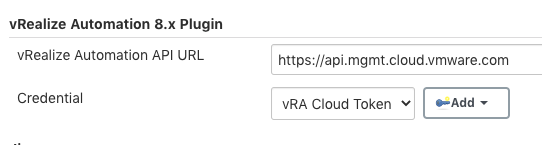
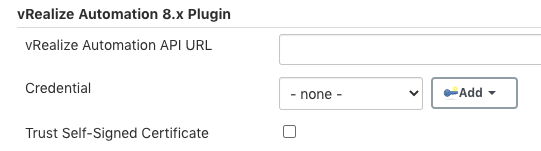
Added flag for self-signed certs

diff --git a/src/test/java/com/vmware/vra/jenkinsplugin/vra/VraApiTest.java b/src/test/java/com/vmware/vra/jenkinsplugin/vra/VraApiTest.java
@@ -73,7 +73,7 @@ public class VraApiTest {
       System.err.println("VRA_URL not set. Skipping test");
       return;
     }
-    final VraApi client = new VraApi(url, System.getenv("VRA_TOKEN"));
+    final VraApi client = new VraApi(url, System.getenv("VRA_TOKEN"), true);
     assertNotNull(client);
   }
 
@@ -84,7 +84,7 @@ public class VraApiTest {
       System.err.println("VRA_URL not set. Skipping test");
       return;
     }
-    final VraApi client = new VraApi(url, System.getenv("VRA_TOKEN"));
+    final VraApi client = new VraApi(url, System.getenv("VRA_TOKEN"), true);
     final CatalogItem ci = client.getCatalogItemByName(catalogItemName);
     assertNotNull(ci);
     assertEquals(catalogItemName, ci.getName());
@@ -113,7 +113,7 @@ public class VraApiTest {
       System.err.println("VRA_URL not set. Skipping test");
       return;
     }
-    final VraApi client = new VraApi(url, System.getenv("VRA_TOKEN"));
+    final VraApi client = new VraApi(url, System.getenv("VRA_TOKEN"), true);
     CatalogItem ci = client.getCatalogItemByName(catalogItemName);
     assertNotNull(ci);
     assertEquals(catalogItemName, ci.getName());
@@ -145,7 +145,7 @@ public class VraApiTest {
       System.err.println("VRA_URL not set. Skipping test");
       return;
     }
-    final VraApi client = new VraApi(url, System.getenv("VRA_TOKEN"));
+    final VraApi client = new VraApi(url, System.getenv("VRA_TOKEN"), true);
     final Project proj = client.getProjectByName(projectName);
     assertNotNull(proj);
     assertEquals(projectName, proj.getName());
@@ -173,7 +173,7 @@ public class VraApiTest {
       System.err.println("VRA_URL not set. Skipping test");
       return;
     }
-    final VraApi client = new VraApi(url, System.getenv("VRA_TOKEN"));
+    final VraApi client = new VraApi(url, System.getenv("VRA_TOKEN"), true);
     Project proj = client.getProjectByName(projectName);
     assertNotNull(proj);
     assertEquals(projectName, proj.getName());
@@ -221,7 +221,7 @@ public class VraApiTest {
       System.err.println("VRA_URL not set. Skipping test");
       return;
     }
-    final VraApi client = new VraApi(url, System.getenv("VRA_TOKEN"));
+    final VraApi client = new VraApi(url, System.getenv("VRA_TOKEN"), true);
     final String depName = "Test " + UUID.randomUUID().toString();
     final CatalogItemRequestResponse[] resp =
         client.deployFromCatalog(

diff --git a/src/main/java/com/vmware/vra/jenkinsplugin/vra/VraApi.java b/src/main/java/com/vmware/vra/jenkinsplugin/vra/VraApi.java
@@ -70,12 +70,11 @@ public class VraApi implements Serializable {
                   return Pattern.compile(pattern);
                 }
               });
-  private static VraClientFactory clientFactory =
-      new DefaultFactory(); // Hack to make testing easier. See below!
   private final VraClient vraClient;
 
-  public VraApi(final String url, final String token) throws VRAException {
-    this(clientFactory.createClient(url, token));
+  public VraApi(final String url, final String token, final boolean trustSelfSignedCert)
+      throws VRAException {
+    this(new VraClient(url, token, trustSelfSignedCert));
   }
 
   public VraApi(final VraClient vraClient) {
@@ -89,10 +88,6 @@ public class VraApi implements Serializable {
       throw new IllegalArgumentException(
           "Something went wrong while parsing regexp for resource " + resourceName, e);
     }
-  }
-
-  public static void setClientFactory(final VraClientFactory clientFactory) {
-    VraApi.clientFactory = clientFactory;
   }
 
   private static void checkResponseSingleton(final List<?> content) throws VRAException {
@@ -347,15 +342,5 @@ public class VraApi implements Serializable {
     return getResourcesForDeployment(deploymentId).stream()
         .filter((r) -> r.getName().equals(resourceName))
         .collect(Collectors.toList());
-  }
-
-  // This construct is a bit of a hack to make it easier to inject mocked clients
-  // when we're testing. We can't use mockedConstruction, since the creation may happen in
-  // a different thread than the caller's.
-  public static class DefaultFactory implements VraClientFactory {
-    @Override
-    public VraClient createClient(final String url, final String token) throws VRAException {
-      return new VraClient(url, token);
-    }
   }
 }

diff --git a/src/test/java/com/vmware/vra/jenkinsplugin/pipeline/DeleteDeploymentStepTest.java b/src/test/java/com/vmware/vra/jenkinsplugin/pipeline/DeleteDeploymentStepTest.java
@@ -25,6 +25,7 @@
 package com.vmware.vra.jenkinsplugin.pipeline;
 
 import static org.junit.Assert.assertEquals;
+import static org.junit.Assert.assertTrue;
 
 import hudson.util.StreamTaskListener;
 import java.util.HashMap;
@@ -49,6 +50,7 @@ public class DeleteDeploymentStepTest {
           final Map<String, Object> config = new HashMap<>();
           config.put("vraURL", "vraURL");
           config.put("token", "token");
+          config.put("trustSelfSignedCert", true);
           config.put("deploymentId", "deploymentId");
           config.put("timeout", 1L);
           final DescribableModel<DeleteDeploymentStep> model =
@@ -59,6 +61,7 @@ public class DeleteDeploymentStepTest {
           assertEquals("token", step.getToken());
           assertEquals("deploymentId", step.getDeploymentId());
           assertEquals(1L, step.getTimeout());
+          assertTrue(step.isTrustSelfSignedCert());
           model.uninstantiate2_(step);
         });
   }
@@ -77,8 +80,8 @@ public class DeleteDeploymentStepTest {
               new DescribableModel<>(DeleteDeploymentStep.class);
           DeleteDeploymentStep step = model.instantiate(config, StreamTaskListener.fromStderr());
           step = sct.configRoundTrip(step);
-          // assertEquals("vraURL", step.getVraURL());
-          // assertEquals("token", step.getToken());
+          assertEquals("vraURL", step.getVraURL());
+          assertEquals("token", step.getToken());
           assertEquals("deploymentName", step.getDeploymentName());
           assertEquals(1L, step.getTimeout());
           model.uninstantiate2_(step);

diff --git a/src/main/java/com/vmware/vra/jenkinsplugin/vra/VraClient.java b/src/main/java/com/vmware/vra/jenkinsplugin/vra/VraClient.java
@@ -59,9 +59,12 @@ public class VraClient implements Serializable {
   private static final long serialVersionUID = 3442278892595463523L;
   final String refreshToken;
   final String baseUrl;
+  final boolean trustSelfSignedCert;
 
-  public VraClient(final String baseUrl, final String token) throws VRAException {
+  public VraClient(final String baseUrl, final String token, final boolean trustSelfSignedCert)
+      throws VRAException {
     this.baseUrl = baseUrl;
+    this.trustSelfSignedCert = trustSelfSignedCert;
 
     final AuthenticationResponse resp =
         post(
@@ -118,10 +121,11 @@ public class VraClient implements Serializable {
   }
 
   private CloseableHttpClient getClient() throws VRAException {
-    // TODO: Don't assume self signed is OK!
     try {
       final SSLContextBuilder builder = new SSLContextBuilder();
-      builder.loadTrustMaterial(null, new TrustSelfSignedStrategy());
+      if (trustSelfSignedCert) {
+        builder.loadTrustMaterial(null, new TrustSelfSignedStrategy());
+      }
       final SSLConnectionSocketFactory sslsf = new SSLConnectionSocketFactory(builder.build());
       return HttpClients.custom().setSSLSocketFactory(sslsf).build();
     } catch (final KeyStoreException | KeyManagementException | NoSuchAlgorithmException e) {

diff --git a/src/test/java/com/vmware/vra/jenkinsplugin/GlobalConfigurationTest.java b/src/test/java/com/vmware/vra/jenkinsplugin/GlobalConfigurationTest.java
@@ -26,7 +26,9 @@ package com.vmware.vra.jenkinsplugin;
 
 import static org.junit.Assert.assertEquals;
 import static org.junit.Assert.assertNull;
+import static org.junit.Assert.assertTrue;
 
+import com.gargoylesoftware.htmlunit.html.HtmlCheckBoxInput;
 import com.gargoylesoftware.htmlunit.html.HtmlForm;
 import com.gargoylesoftware.htmlunit.html.HtmlTextInput;
 import org.junit.Rule;
@@ -54,7 +56,9 @@ public class GlobalConfigurationTest {
           assertNull("not set initially", GlobalVRAConfiguration.get().getVraURL());
           final HtmlForm config = r.createWebClient().goTo("configure").getFormByName("config");
           final HtmlTextInput textbox = config.getInputByName("_.vraURL");
+          final HtmlCheckBoxInput checkbox = config.getInputByName("_.trustSelfSignedCert");
           textbox.setText("hello");
+          checkbox.setChecked(true);
 
           r.submit(config);
           assertEquals(
@@ -68,6 +72,7 @@ public class GlobalConfigurationTest {
               "still there after restart of Jenkins",
               "hello",
               GlobalVRAConfiguration.get().getVraURL());
+          assertTrue(GlobalVRAConfiguration.get().getTrustSelfSignedCert());
         });
   }
 }

diff --git a/src/main/java/com/vmware/vra/jenkinsplugin/pipeline/AbstractStep.java b/src/main/java/com/vmware/vra/jenkinsplugin/pipeline/AbstractStep.java
@@ -40,6 +40,8 @@ public abstract class AbstractStep extends Step implements Serializable {
 
   protected String token;
 
+  protected boolean trustSelfSignedCert;
+
   private VraApi cachedClient;
 
   public AbstractStep() {}
@@ -48,7 +50,7 @@ public abstract class AbstractStep extends Step implements Serializable {
     if (cachedClient != null) {
       return cachedClient;
     }
-    return cachedClient = new VraApi(resolveVraURL(), resolveToken());
+    return cachedClient = new VraApi(resolveVraURL(), resolveToken(), trustSelfSignedCert);
   }
 
   @DoNotCall("use resolveVraURL instead!")
@@ -76,6 +78,19 @@ public abstract class AbstractStep extends Step implements Serializable {
   @DataBoundSetter
   public void setToken(final String token) {
     this.token = token;
+  }
+
+  public boolean isTrustSelfSignedCert() {
+    return trustSelfSignedCert;
+  }
+
+  public boolean getTrustSelfSignedCert() {
+    return trustSelfSignedCert;
+  }
+
+  @DataBoundSetter
+  public void setTrustSelfSignedCert(final boolean trustSelfSignedCert) {
+    this.trustSelfSignedCert = trustSelfSignedCert;
   }
 
   public String resolveToken() {

diff --git a/src/test/java/com/vmware/vra/jenkinsplugin/pipeline/DeploymentAwareStepTest.java b/src/test/java/com/vmware/vra/jenkinsplugin/pipeline/DeploymentAwareStepTest.java
@@ -25,6 +25,7 @@
 package com.vmware.vra.jenkinsplugin.pipeline;
 
 import static org.junit.Assert.assertEquals;
+import static org.junit.Assert.assertTrue;
 
 import hudson.util.StreamTaskListener;
 import java.util.HashMap;
@@ -51,6 +52,7 @@ public abstract class DeploymentAwareStepTest<T extends DeploymentAwareStep> {
           final Map<String, Object> config = new HashMap<>();
           config.put("vraURL", "vraURL");
           config.put("token", "token");
+          config.put("trustSelfSignedCert", true);
           config.put("deploymentId", "deploymentId");
           final DescribableModel<T> model = new DescribableModel<>(clazz);
           T step = model.instantiate(config, StreamTaskListener.fromStderr());
@@ -58,6 +60,7 @@ public abstract class DeploymentAwareStepTest<T extends DeploymentAwareStep> {
           assertEquals("vraURL", step.getVraURL());
           assertEquals("token", step.getToken());
           assertEquals("deploymentId", step.getDeploymentId());
+          assertTrue(step.isTrustSelfSignedCert());
           model.uninstantiate2_(step);
         });
   }

diff --git a/src/test/java/com/vmware/vra/jenkinsplugin/pipeline/DeployFromCatalogStepTest.java b/src/test/java/com/vmware/vra/jenkinsplugin/pipeline/DeployFromCatalogStepTest.java
@@ -25,6 +25,7 @@
 package com.vmware.vra.jenkinsplugin.pipeline;
 
 import static org.junit.Assert.assertEquals;
+import static org.junit.Assert.assertTrue;
 
 import com.vmware.vra.jenkinsplugin.testutils.FileUtils;
 import hudson.util.StreamTaskListener;
@@ -114,6 +115,7 @@ public class DeployFromCatalogStepTest {
           final String configText = FileUtils.loadResource("/apiresults/DeploymentConfig.yaml");
           config.put("vraURL", "vraURL");
           config.put("token", "token");
+          config.put("trustSelfSignedCert", true);
           config.put("config", configText);
           final DescribableModel<DeployFromCatalogStep> model =
               new DescribableModel<>(DeployFromCatalogStep.class);
@@ -123,6 +125,7 @@ public class DeployFromCatalogStepTest {
           assertEquals("token", step.getToken());
           assertEquals(configText, step.getConfig());
           assertEquals("yaml", step.getConfigFormat());
+          assertTrue(step.isTrustSelfSignedCert());
           model.uninstantiate2_(step);
         });
   }

diff --git a/src/test/java/com/vmware/vra/jenkinsplugin/pipeline/RunActionStepTest.java b/src/test/java/com/vmware/vra/jenkinsplugin/pipeline/RunActionStepTest.java
@@ -25,6 +25,7 @@
 package com.vmware.vra.jenkinsplugin.pipeline;
 
 import static org.junit.Assert.assertEquals;
+import static org.junit.Assert.assertTrue;
 
 import hudson.util.StreamTaskListener;
 import java.util.HashMap;
@@ -51,6 +52,7 @@ public class RunActionStepTest extends DeploymentAwareStepTest<RunActionStep> {
           final Map<String, Object> config = new HashMap<>();
           config.put("vraURL", "vraURL");
           config.put("token", "token");
+          config.put("trustSelfSignedCert", true);
           config.put("deploymentId", "deploymentId");
           config.put("timeout", 1L);
           config.put("actionId", "actionId");
@@ -67,6 +69,7 @@ public class RunActionStepTest extends DeploymentAwareStepTest<RunActionStep> {
           assertEquals("actionId", step.getActionId());
           assertEquals("resourceName", step.getResourceName());
           assertEquals("reason", step.getReason());
+          assertTrue(step.isTrustSelfSignedCert());
           model.uninstantiate2_(step);
         });
   }

diff --git a/src/test/java/com/vmware/vra/jenkinsplugin/pipeline/GetDeploymentStepTest.java b/src/test/java/com/vmware/vra/jenkinsplugin/pipeline/GetDeploymentStepTest.java
@@ -25,6 +25,7 @@
 package com.vmware.vra.jenkinsplugin.pipeline;
 
 import static org.junit.Assert.assertEquals;
+import static org.junit.Assert.assertTrue;
 
 import hudson.util.StreamTaskListener;
 import java.util.HashMap;
@@ -50,6 +51,7 @@ public class GetDeploymentStepTest {
           config.put("vraURL", "vraURL");
           config.put("token", "token");
           config.put("deploymentId", "deploymentId");
+          config.put("trustSelfSignedCert", true);
           final DescribableModel<GetDeploymentStep> model =
               new DescribableModel<>(GetDeploymentStep.class);
           GetDeploymentStep step = model.instantiate(config, StreamTaskListener.fromStderr());
@@ -57,6 +59,7 @@ public class GetDeploymentStepTest {
           assertEquals("vraURL", step.getVraURL());
           assertEquals("token", step.getToken());
           assertEquals("deploymentId", step.getDeploymentId());
+          assertTrue(step.isTrustSelfSignedCert());
           model.uninstantiate2_(step);
         });
   }

diff --git a/src/test/java/com/vmware/vra/jenkinsplugin/pipeline/WaitForAddressStepTest.java b/src/test/java/com/vmware/vra/jenkinsplugin/pipeline/WaitForAddressStepTest.java
@@ -25,6 +25,7 @@
 package com.vmware.vra.jenkinsplugin.pipeline;
 
 import static org.junit.Assert.assertEquals;
+import static org.junit.Assert.assertTrue;
 
 import hudson.util.StreamTaskListener;
 import java.util.HashMap;
@@ -46,6 +47,7 @@ public class WaitForAddressStepTest {
           final Map<String, Object> config = new HashMap<>();
           config.put("vraURL", "vraURL");
           config.put("token", "token");
+          config.put("trustSelfSignedCert", true);
           config.put("deploymentId", "deploymentId");
           config.put("resourceName", "resourceName");
           config.put("timeout", 1L);
@@ -58,6 +60,7 @@ public class WaitForAddressStepTest {
           assertEquals("resourceName", step.getResourceName());
           assertEquals("deploymentId", step.getDeploymentId());
           assertEquals(1L, step.getTimeout());
+          assertTrue(step.isTrustSelfSignedCert());
           model.uninstantiate2_(step);
         });
   }

diff --git a/src/main/java/com/vmware/vra/jenkinsplugin/GlobalVRAConfiguration.java b/src/main/java/com/vmware/vra/jenkinsplugin/GlobalVRAConfiguration.java
@@ -48,6 +48,8 @@ public class GlobalVRAConfiguration extends GlobalConfiguration implements Seria
 
   private String credentialId;
 
+  private boolean trustSelfSignedCert;
+
   public GlobalVRAConfiguration() {
     // When Jenkins is restarted, load any saved configuration from disk.
     load();
@@ -74,6 +76,20 @@ public class GlobalVRAConfiguration extends GlobalConfiguration implements Seria
   @DataBoundSetter
   public void setCredentialId(final String credentialId) {
     this.credentialId = credentialId;
+    save();
+  }
+
+  public boolean isTrustSelfSignedCert() {
+    return trustSelfSignedCert;
+  }
+
+  public boolean getTrustSelfSignedCert() {
+    return trustSelfSignedCert;
+  }
+
+  @DataBoundSetter
+  public void setTrustSelfSignedCert(final boolean trustSelfSignedCert) {
+    this.trustSelfSignedCert = trustSelfSignedCert;
     save();
   }
 
